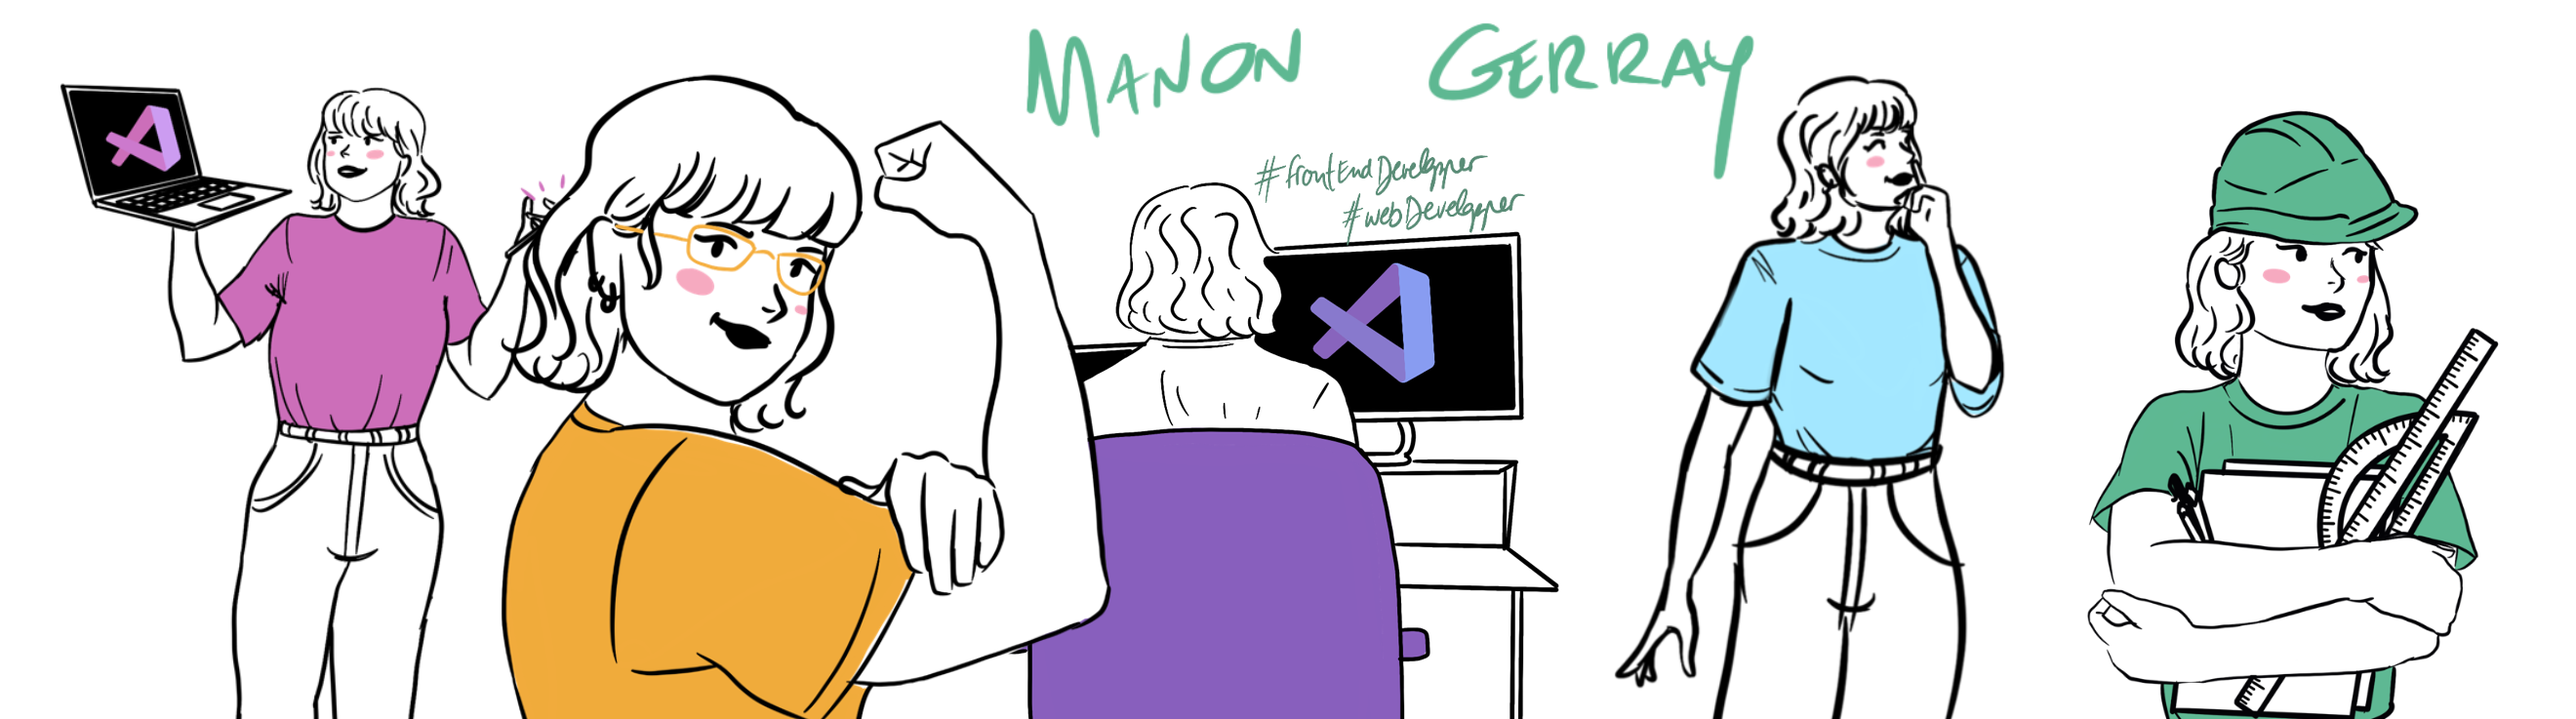
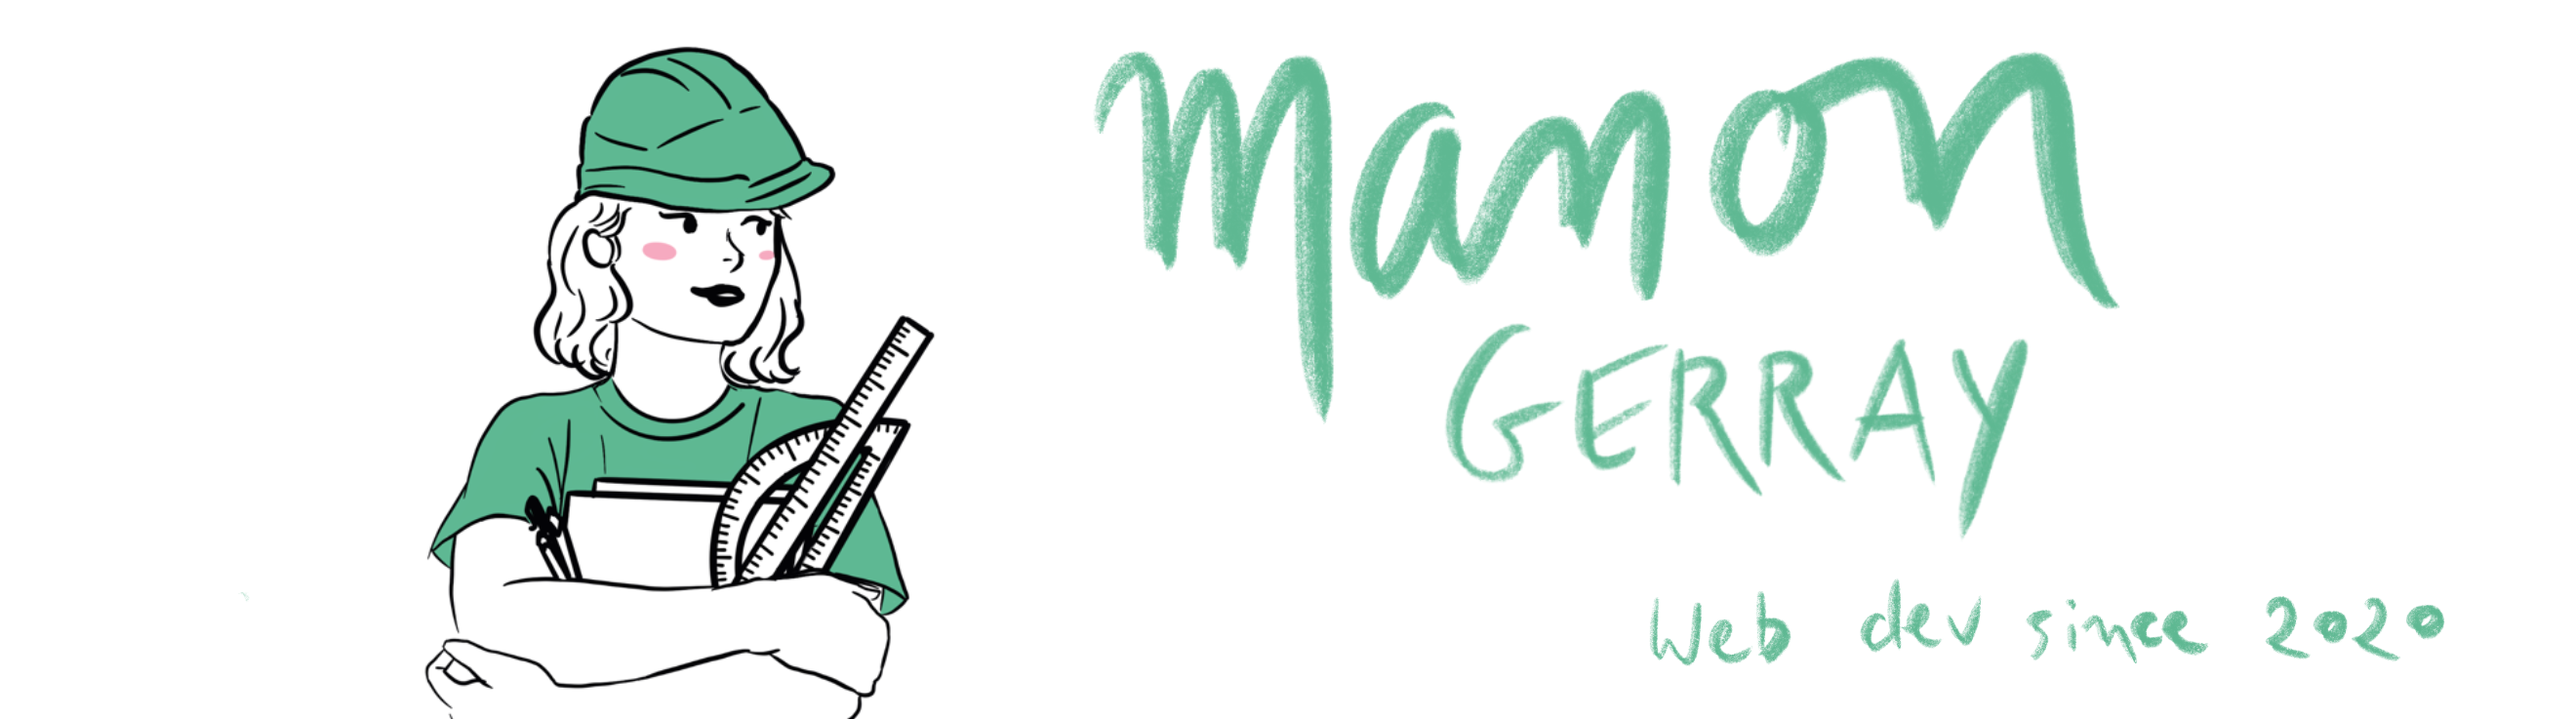
:art: Welcoming page changes

diff --git a/README.md b/README.md
@@ -1,26 +1,7 @@
 ### Hi there 👋
 
-<img src="manon.PNG" alt="Manon works" />
+<img src="manon.png" alt="Manon works" />
 
-:octocat: Manon
-
-:baby:  25 
-
-:tulip:  Web developer, front-end lover
-
-:computer:  Javascript, React, Next, Node
-
-:lipstick:  HTML, CSS, Adobe Photoshop, Procreate, Adobe Draw, Adobe XD
-
-:briefcase:  Currently working with Le Qoqo, available on February
-
-:musical_keyboard:  Hobby 1 (lol) > singing, playing guitar and electronic music
-
-:pencil:  Hobby 2 > drawing 
-
-:earth_asia:  Hobby 3 > travel the world
-
-
-You can contact me on Linked In if you wish to talk and learn more about me :blush:
+Welcome on my Github page ! Wanna learn a little more about me ? Well, I'm Manon, I'm 25, I live in France but dream about living somewhere else in the world to discover new landscapes and cultures. I'm a dog person, but I only have cats. I listen to a lot of different music styles but my favorites are pop, electro pop, but I also like rap, classic, and rock. I also love movies soundtracks. Ok let's be clear : I love music. I'm a video games addict, if I were a Twitch streamer I'd probably be the only one streaming Destiny "let's play" ! Oh. And I'm a web developer. 
 
 
